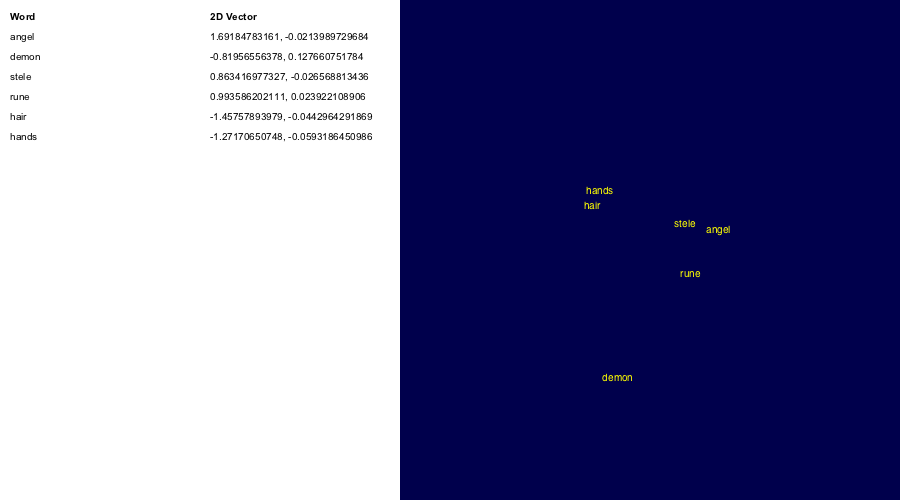
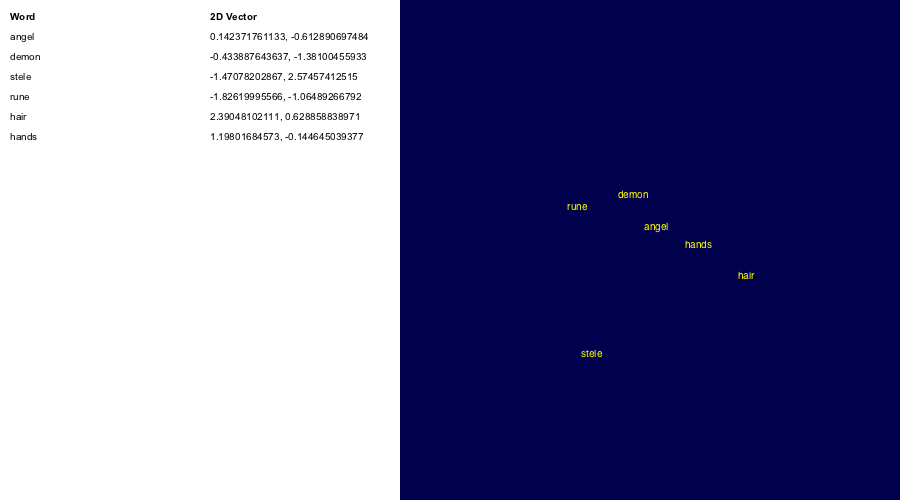
Use pretrained Google model for word2vec

diff --git a/visualization.py b/visualization.py
@@ -101,6 +101,10 @@ def load_numpy(path):
 		loaded_numpy = numpy.load( infile )
 	return loaded_numpy
 
+def save_numpy( path, output ):
+	with open( path, 'wb' ) as outfile:
+		numpy.save( outfile, output )
+
 def load_pandas(path):
 	with open( path, 'rb' ) as infile:
 		loaded_pandas = pandas.read_pickle(infile)
@@ -159,14 +163,17 @@ def word_vectors():
 	# 	['I','am','a','nerd','and','I','like','Pho'],
 	# 	['Jianghu','is','the','wuxia','world','of','citizens','heroes','and','evildoers']
 	# ]
-	text_file = 'City of Bones.txt'
-	sentences = create_sentences(text_file)
-	print('Processed text file ' + text_file + ' into sentences and words')
-	model = models.Word2Vec( sentences, min_count=1 )
-	disk_file_name = 'wordsbyandrea.txt'
-	model.save(disk_file_name)
-	model = models.Word2Vec.load(disk_file_name)
-	print( 'Trained and loaded word2vec model into ' + disk_file_name )
+	# text_file = 'City of Bones.txt'
+	# sentences = create_sentences(text_file)
+	# print('Processed text file ' + text_file + ' into sentences and words')
+	# model = models.Word2Vec( sentences, min_count=1 )
+	# disk_file_name = 'wordsbyandrea.txt'
+	# model.save(disk_file_name)
+	# model = models.Word2Vec.load(disk_file_name)
+	# print( 'Trained and loaded word2vec model into ' + disk_file_name )
+	# print( 'Start loading google model' )
+	# model = models.KeyedVectors.load_word2vec_format('../GoogleNews-vectors-negative300.bin', binary=True)  
+	# print( 'Loaded google model' )
 	words = [
 		# 'Shadowhunter',
 		# 'Shadowhunters',
@@ -194,11 +201,16 @@ def word_vectors():
 		'hair',
 		'hands'
 	]
-	vectors = []
-	for word in words:
-		word_vector = model.wv[word]
-		vectors.append( word_vector )
-	word_vectors = numpy.array( vectors )
+	# vectors = []
+	# for word in words:
+	# 	word_vector = model.wv[word]
+	# 	vectors.append( word_vector )
+	# word_vectors = numpy.array( vectors )
+	vectors_file_name = 'angle_demon_vectors.npy'
+	# print( 'saving array into file ' + vectors_file_name )
+	# save_numpy( vectors_file_name, word_vectors )
+	# print( 'saved' )
+	word_vectors = load_numpy( vectors_file_name )
 	word_2d_vectors = reduce_to_2d( word_vectors )
 
 	surface = cairo.ImageSurface( cairo.FORMAT_ARGB32, WIDTH, HEIGHT )
@@ -218,7 +230,7 @@ def word_vectors():
 	
 	for i in range( 0, len(words) ):
 		point = word_2d_vectors[i]
-		plot( ctx, 650, 250, 40, words[i], point[ 0 ], point [ 1 ], y_to_x_scale=25 )
+		plot( ctx, 650, 250, 40, words[i], point[ 0 ], point [ 1 ], y_to_x_scale=1 )
 		table.append( [ words[i], str(point[0])+', '+str(point[1]) ] )
 	
 	create_table( ctx, 10, 20, table )
